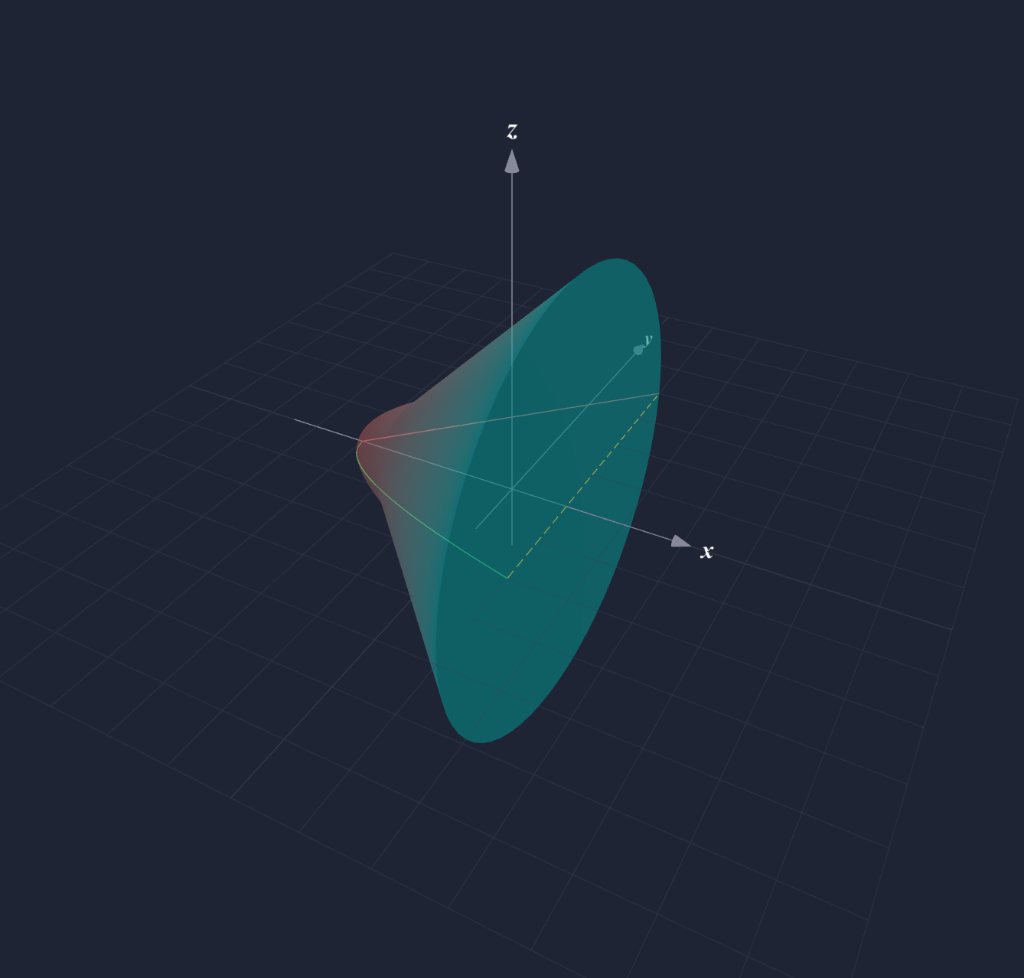
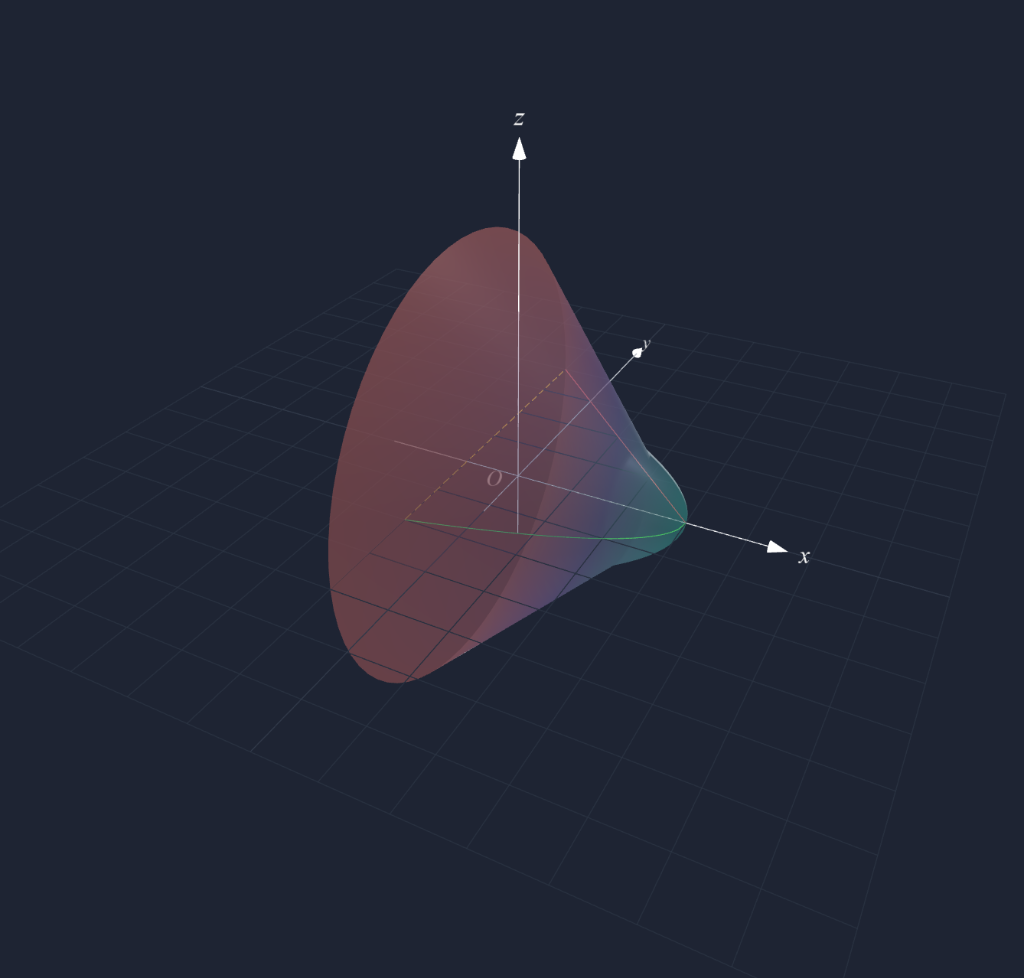
feat: Add Inline LaTex Preview, 3-Color Gradient, Auto-Rotate, and update UI defaults

Changed region(s): [[0.3125, 0.2147, 0.6875, 0.7669], [0.4688, 0.1227, 0.5312, 0.184], [0.75, 0.5521, 0.7812, 0.5828]]

diff --git a/app.js b/app.js
@@ -42,6 +42,7 @@ const sliderOpacity = document.getElementById('slider-opacity');
 const colorModeSelect = document.getElementById('color-mode-select');
 const colorSolid = document.getElementById('color-solid');
 const colorStart = document.getElementById('color-start');
+const colorMid = document.getElementById('color-mid');
 const colorEnd = document.getElementById('color-end');
 const toggleWireframe = document.getElementById('toggle-wireframe');
 const colorBounds = document.getElementById('color-bounds');
@@ -61,10 +62,10 @@ const btnAddLower = document.getElementById('btn-add-lower');
 // State for Multiple Functions
 // Each item: { id: string, expr: string, color: string, rangeStart: string, rangeEnd: string, preview: element }
 let upperFuncs = [
-    { id: 'f1', expr: 'x+3', color: '#ff6b6b', rangeStart: '', rangeEnd: '' }
+    { id: 'f1', expr: '-x+3', color: '#ff6b6b', rangeStart: '', rangeEnd: '' }
 ];
 let lowerFuncs = [
-    { id: 'g1', expr: '-sqrt(x+3)', color: '#51cf66', rangeStart: '', rangeEnd: '' }
+    { id: 'g1', expr: '-sqrt(-x+3)', color: '#51cf66', rangeStart: '', rangeEnd: '' }
 ];
 
 // ============================================
@@ -741,6 +742,7 @@ function updateSolid() {
     if (colorMode === 'gradient-x') {
         // GRADIENT MODE: Use vertex colors
         const startColor = new THREE.Color(colorStart.value);
+        const midColor = new THREE.Color(colorMid.value);
         const endColor = new THREE.Color(colorEnd.value);
 
         const colors = [];
@@ -748,7 +750,18 @@ function updateSolid() {
         for (let i = 0; i < positions.length; i += 3) {
             const x = positions[i];
             const t = Math.max(0, Math.min(1, (x - a) / (b - a)));
-            const vertexColor = new THREE.Color().lerpColors(startColor, endColor, t);
+            let vertexColor;
+
+            // 3-Color Interpolation
+            if (t < 0.5) {
+                // First half: Start -> Mid
+                const localT = t * 2; // 0..0.5 -> 0..1
+                vertexColor = new THREE.Color().lerpColors(startColor, midColor, localT);
+            } else {
+                // Second half: Mid -> End
+                const localT = (t - 0.5) * 2; // 0.5..1 -> 0..1
+                vertexColor = new THREE.Color().lerpColors(midColor, endColor, localT);
+            }
             colors.push(vertexColor.r, vertexColor.g, vertexColor.b);
         }
         geometry.setAttribute('color', new THREE.Float32BufferAttribute(colors, 3));
@@ -1032,13 +1045,20 @@ function renderFunctionList(type) {
         const div = document.createElement('div');
         div.className = 'func-item';
         div.innerHTML = `
-            <div class="func-item-row">
+            <div class="func-item-row top-row">
                 <div class="color-pickers">
                     <input type="color" value="${item.color}" id="color-${type}-${index}">
                 </div>
-                <input type="text" value="${item.expr}" id="input-${type}-${index}" placeholder="Nhập hàm số (ví dụ: x+1)">
+                
+                <div class="input-col">
+                     <input type="text" value="${item.expr}" id="input-${type}-${index}" placeholder="Nhập hàm số (ví dụ: x+1)">
+                     <!-- INLINE PREVIEW -->
+                     <div class="latex-mini" id="preview-${type}-${index}"></div>
+                </div>
+
                 <button class="btn-remove" data-type="${type}" data-index="${index}" title="Xóa">×</button>
             </div>
+            
             <div class="func-item-row range-row">
                 <span>Từ x =</span>
                 <input type="text" value="${item.rangeStart}" id="start-${type}-${index}" placeholder="-∞">
@@ -1054,6 +1074,7 @@ function renderFunctionList(type) {
         const startInput = div.querySelector(`#start-${type}-${index}`);
         const endInput = div.querySelector(`#end-${type}-${index}`);
         const removeBtn = div.querySelector('.btn-remove');
+        const previewEl = div.querySelector(`#preview-${type}-${index}`);
 
         // Update Model on Change
         const updateModel = () => {
@@ -1064,6 +1085,13 @@ function renderFunctionList(type) {
             // Debounce or immediate update? Immediate for now.
         };
 
+        const updatePreview = () => {
+            renderLatexPreview(exprInput.value, previewEl);
+        };
+
+        // Initial preview
+        updatePreview();
+
         // Inputs trigger update on change
         [colorInput, startInput, endInput].forEach(inp => {
             inp.addEventListener('input', () => { // Use input for live color/text
@@ -1073,6 +1101,11 @@ function renderFunctionList(type) {
         });
 
         // Expression input: update on change (Enter/Blur) to avoid heavy parse on every key
+        // BUT update preview on input for responsiveness
+        exprInput.addEventListener('input', () => {
+            updatePreview();
+        });
+
         exprInput.addEventListener('change', () => {
             updateModel();
             updateSolid();
@@ -1141,16 +1174,21 @@ function setupEventListeners() {
     });
 
     // Color Mode
+
+    // ... (existing code)
+
     // Color Mode
     const toggleColorModes = () => {
         const mode = colorModeSelect.value;
         if (mode === 'solid') {
             colorSolid.classList.remove('hidden');
             colorStart.classList.add('hidden');
+            colorMid.classList.add('hidden');
             colorEnd.classList.add('hidden');
         } else {
             colorSolid.classList.add('hidden');
             colorStart.classList.remove('hidden');
+            colorMid.classList.remove('hidden');
             colorEnd.classList.remove('hidden');
         }
         updateSolid();
@@ -1159,6 +1197,7 @@ function setupEventListeners() {
     colorModeSelect.addEventListener('change', toggleColorModes);
     colorSolid.addEventListener('input', updateSolid);
     colorStart.addEventListener('input', updateSolid);
+    colorMid.addEventListener('input', updateSolid);
     colorEnd.addEventListener('input', updateSolid);
 
     // Initial call to set correct state
@@ -1178,6 +1217,7 @@ function setupEventListeners() {
                 colors: {
                     solid: colorSolid.value,
                     start: colorStart.value,
+                    mid: colorMid.value,
                     end: colorEnd.value
                 }
             }
@@ -1316,6 +1356,7 @@ function restoreState(state) {
         if (state.visuals.colors) {
             colorSolid.value = state.visuals.colors.solid || '#4ECDC4';
             colorStart.value = state.visuals.colors.start || '#FF9A9E';
+            colorMid.value = state.visuals.colors.mid || '#a18cd1';
             colorEnd.value = state.visuals.colors.end || '#4ECDC4';
         }
     }

diff --git a/index.html b/index.html
@@ -74,11 +74,11 @@
                 <div class="bounds-row">
                     <div class="input-bound">
                         <label for="input-a">Cận a</label>
-                        <input type="text" id="input-a" value="-3" placeholder="-∞">
+                        <input type="text" id="input-a" value="-1" placeholder="-∞">
                     </div>
                     <div class="input-bound">
                         <label for="input-b">Cận b</label>
-                        <input type="text" id="input-b" value="1" placeholder="+∞">
+                        <input type="text" id="input-b" value="3" placeholder="+∞">
                     </div>
                 </div>
 
@@ -95,9 +95,9 @@
                 <div class="slider-group">
                     <label>
                         <span>Độ trong suốt:</span>
-                        <span id="value-opacity" class="slider-value">0.75</span>
+                        <span id="value-opacity" class="slider-value">0.50</span>
                     </label>
-                    <input type="range" id="slider-opacity" min="0" max="100" value="75" step="1">
+                    <input type="range" id="slider-opacity" min="0" max="100" value="50" step="1">
                 </div>
 
                 <!-- Color Mode with Dropdown -->
@@ -110,8 +110,9 @@
                         </select>
                         <div class="color-pickers" id="color-pickers">
                             <input type="color" id="color-solid" value="#4ECDC4" class="hidden" title="Màu khối">
-                            <input type="color" id="color-start" value="#FF9A9E" title="Màu 1">
-                            <input type="color" id="color-end" value="#4ECDC4" title="Màu 2">
+                            <input type="color" id="color-start" value="#FF9A9E" title="Màu đầu">
+                            <input type="color" id="color-mid" value="#a18cd1" class="hidden" title="Màu giữa">
+                            <input type="color" id="color-end" value="#4ECDC4" title="Màu cuối">
                         </div>
                     </div>
                 </div>

diff --git a/styles.css b/styles.css
@@ -705,6 +705,14 @@ input[type="range"]::-webkit-slider-thumb {
     text-align: center;
 }
 
+.range-value {
+    font-family: 'Quicksand', sans-serif;
+    font-weight: 700;
+    color: #fff;
+    min-width: 3rem;
+    text-align: right;
+}
+
 /* --- Header Controls --- */
 .header-controls {
     display: flex;
@@ -835,4 +843,55 @@ input[type="range"]::-webkit-slider-thumb {
         max-height: 50vh;
         border-right: none;
     }
+}
+
+.input-col {
+    flex: 1;
+    display: flex;
+    flex-direction: column;
+    width: 100%;
+    /* Ensure it takes full width of flex item */
+    min-width: 0;
+    /* Fix flex overflow */
+}
+
+.func-item-row.top-row {
+    align-items: flex-start;
+    /* Align color picker to top */
+    gap: 10px;
+}
+
+.func-item-row.top-row .color-pickers {
+    margin-top: 4px;
+    /* Slight adjust to align with input text */
+}
+
+/* --- Inline Latex Preview --- */
+.latex-mini {
+    min-height: 24px;
+    font-size: 1.1rem;
+    color: #ffffff;
+    /* Default white text */
+    background: transparent;
+    border: none;
+    padding: 0;
+    margin-top: 4px;
+    margin-bottom: 0;
+    margin-left: 0;
+    /* Reset manual offset */
+    text-align: left;
+    overflow-x: auto;
+    white-space: nowrap;
+    display: flex;
+    align-items: center;
+    justify-content: flex-start;
+}
+
+.latex-mini:empty {
+    display: none;
+}
+
+.latex-mini .katex {
+    font-size: 1.1em;
+    font-family: 'KaTeX_Main', 'Times New Roman', serif;
 }
